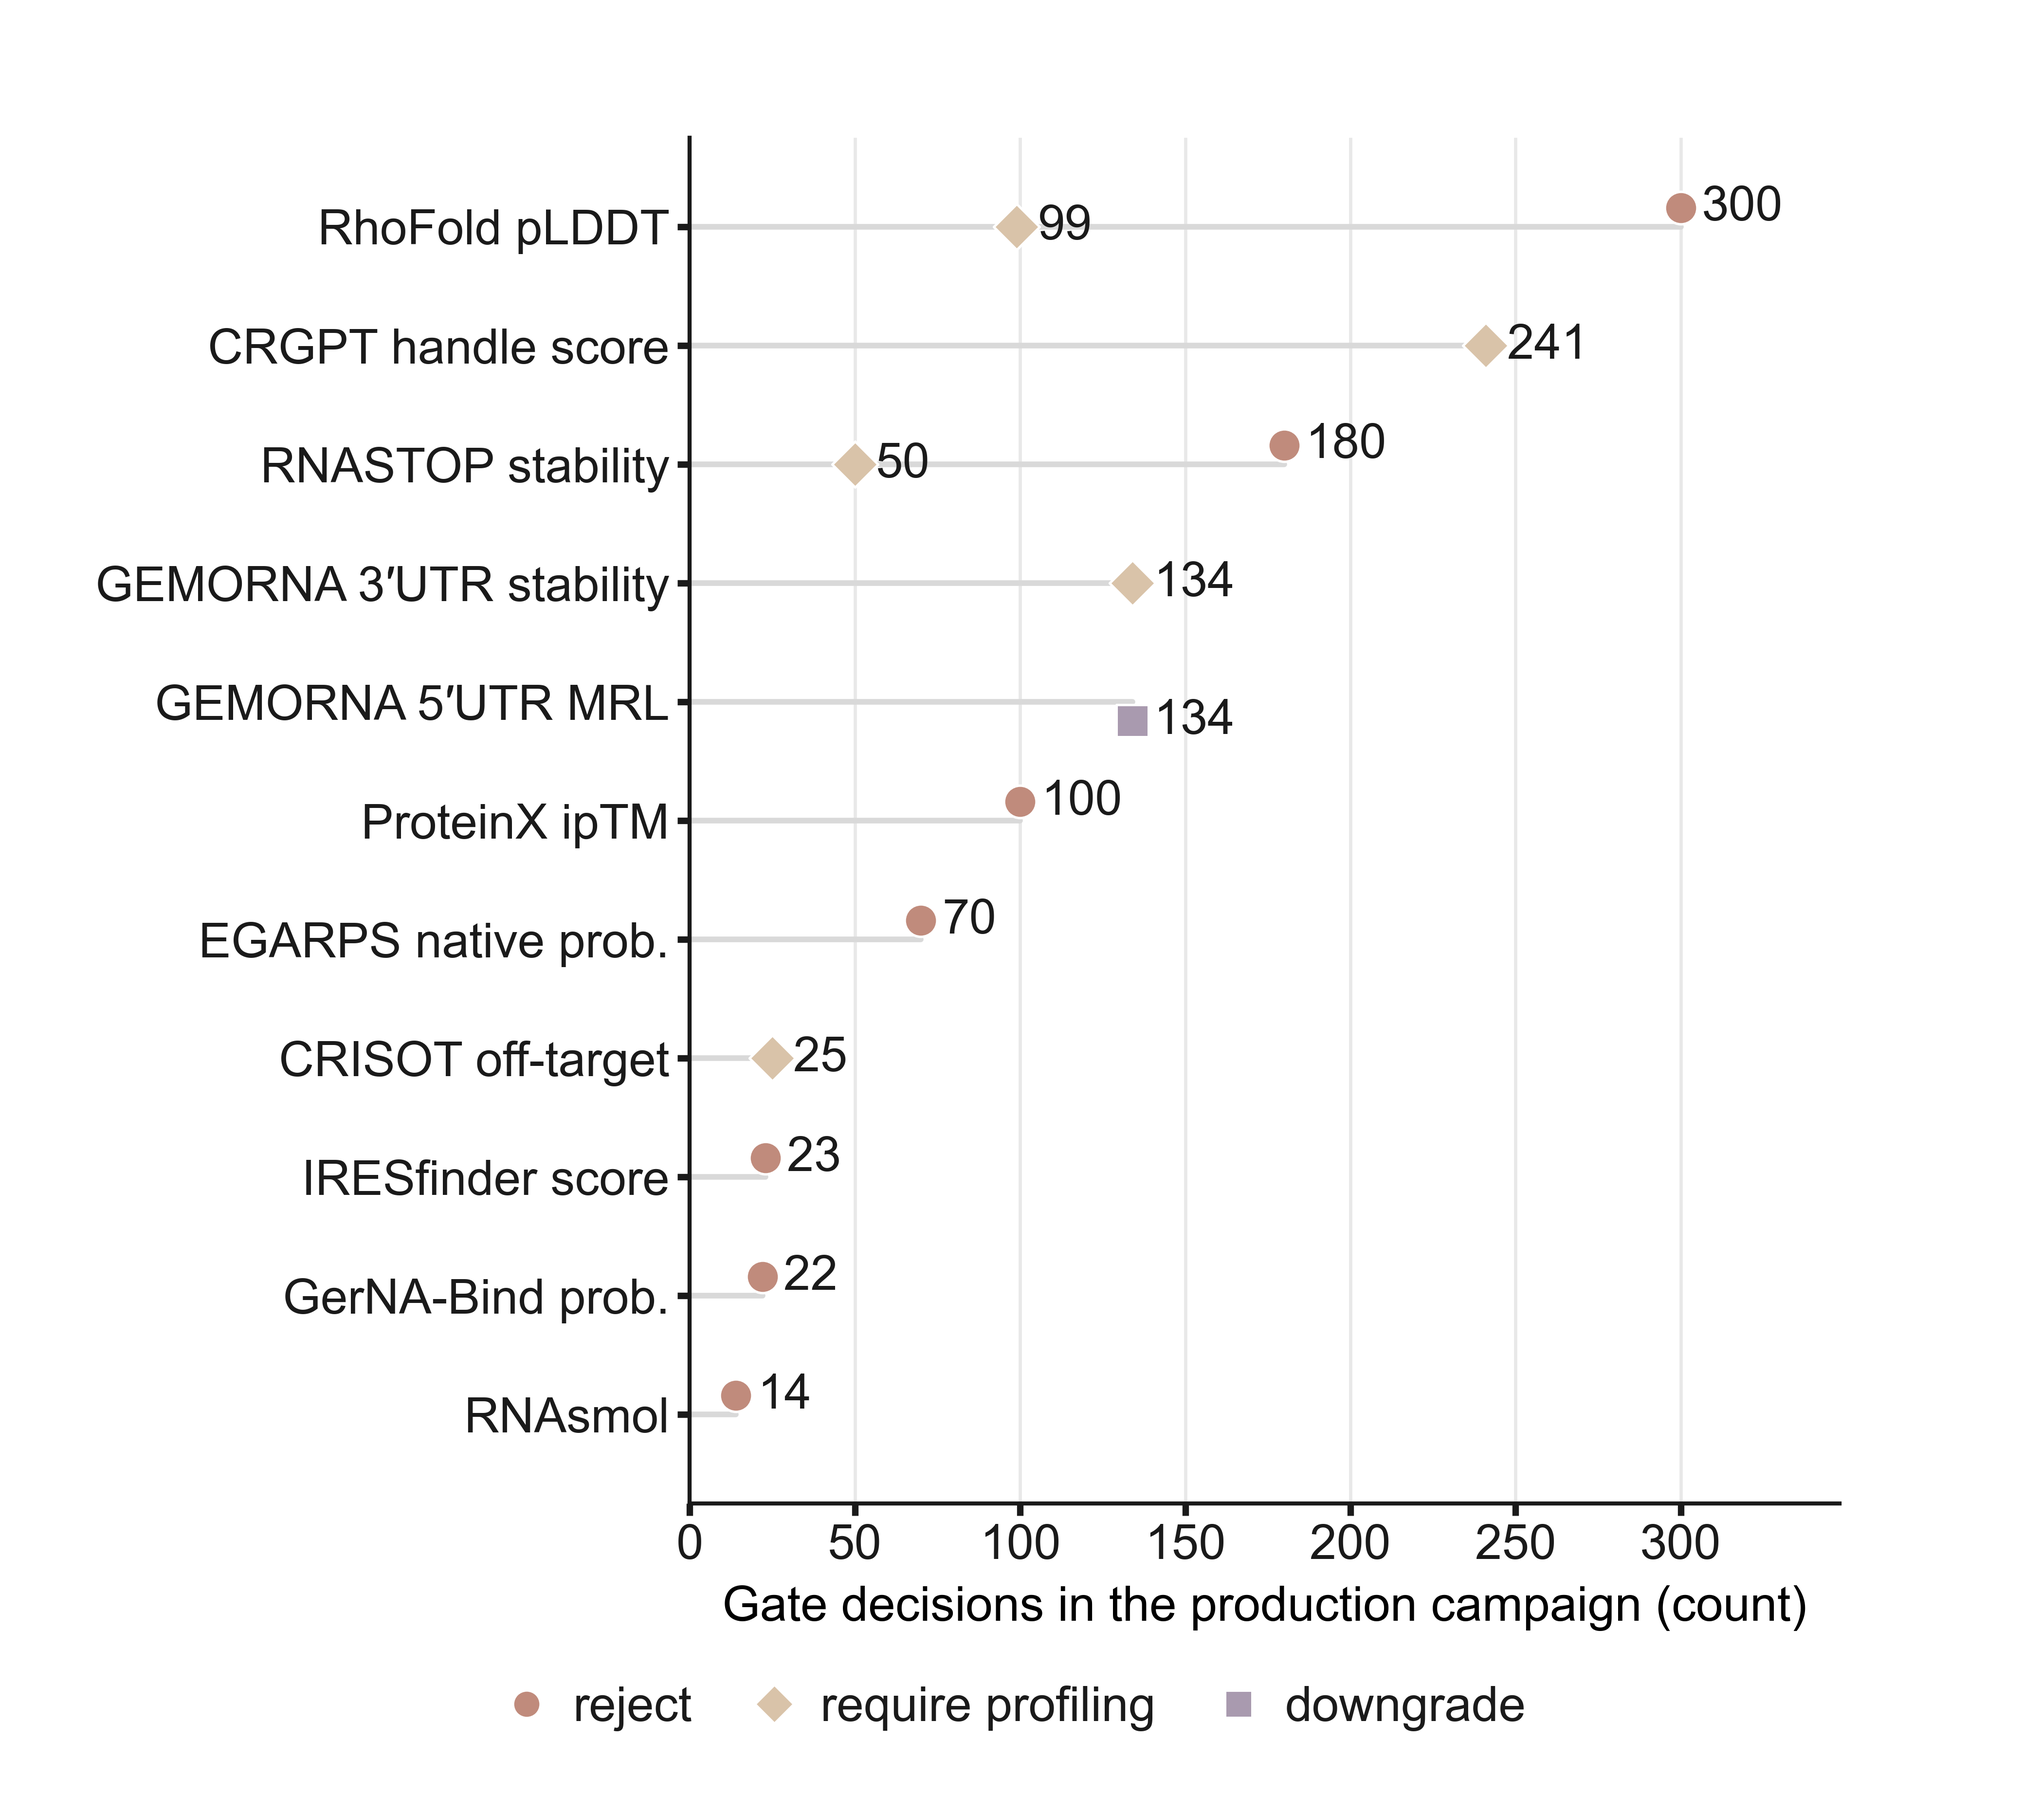
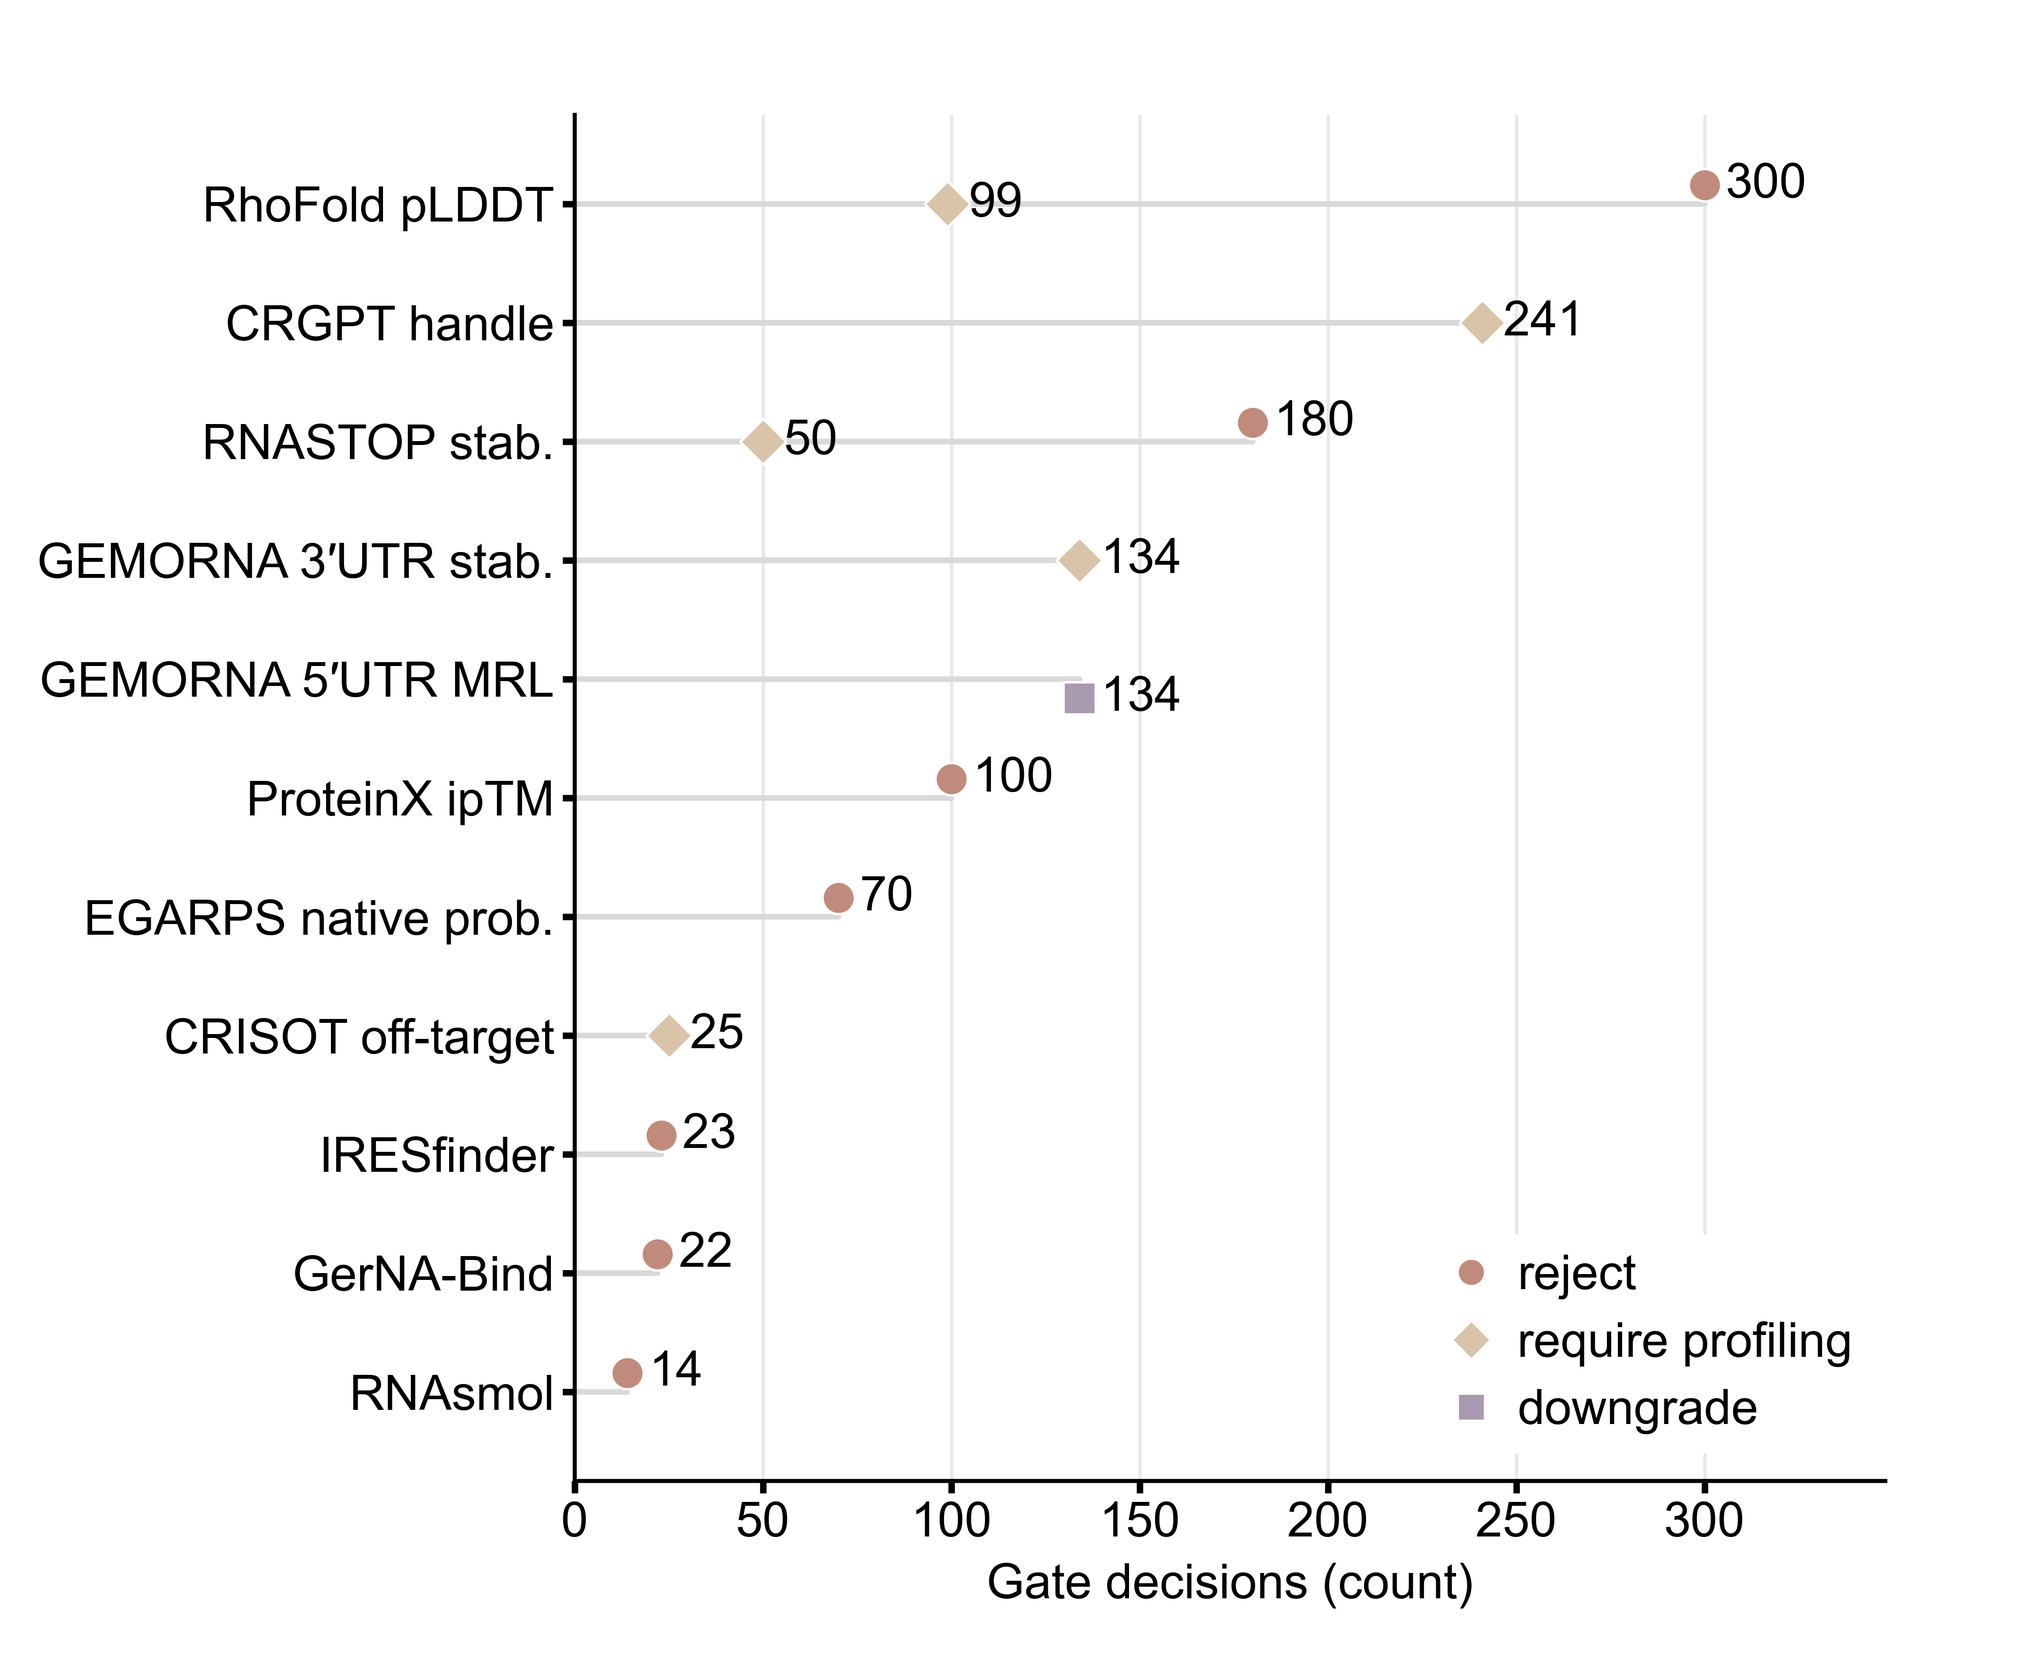
style(fig4f): pure-black text + in-panel verdict key + shortened labels — user-directed revision of the frozen Exp-24 panel, no re-run
- all text palette TEXT #1A1A1A -> INK #000000 (the fig4a-4e/4g panel convention; rcParams text/edge/label/tick colours + value labels + key texts; pixel-verified dominant dark [0,0,0])
- no in-figure title (Nature convention, verified against the LinearDesign Nature 621 reference: bold panel letter at top left — added by the assembler — headline in the caption, never a centred title); sentence-like x-axis label "Gate decisions in the production campaign (count)" -> "Gate decisions (count)"
- y row labels shortened to tool + gated metric (fig4c bare-name convention): CRGPT handle, RNASTOP stab., GEMORNA 3'UTR stab., IRESfinder, GerNA-Bind; longest label 23 -> 19 chars, left margin 30 -> 25 mm; terminology verified against upstream repos (RhoFold/GEMORNA/RNASTOP/CRISOT/IRESfinder/GerNA-Bind/RNAsmol/EGARPS/CRGPT confirmed; ProteinX kept as the project-wide paper convention for the Protenix service)
- verdict key moved into the panel lower right (Nature in-panel key convention, also fig2h) with opaque white edgeless backing so gridlines do not cross it; external key row dropped, canvas 78.9 -> 72.4 mm tall
- new _layout_check(): rendered-extent asserts — every text inside the figure, zero text/text overlaps, key clears every value label (PASS)
- colours unchanged palette rev 7 (reject #C08B7C, require_profiling #D9C3A9, downgrade #A99AAF); 1200-dpi PNG + vector PDF (fonttype 42, Nature Methods conformant)
[…]

diff --git a/rna_agent_system/experiments/plots/fig4f_gate_decisions.py b/rna_agent_system/experiments/plots/fig4f_gate_decisions.py
@@ -13,16 +13,21 @@ logged identically under advisory and enforce; only enforcement differs).
 Counts come from the frozen audit-slice corpus (SHA-256 manifest, see
 experiments/exp24_audit_gate_stats.py).
 
-Style (reset programme, Nature convention): no in-figure title — the headline
-lives in the caption and the assembler adds the panel letter; every text
-element is one 6-pt ink-black style; the verdict legend is a centred row
-block directly under the x-axis label (fig2i/fig3b convention); absolute-mm
-geometry; 1200-dpi PNG + vector PDF (fonttype 42).
+Style (reset programme, Nature convention): no in-figure title — Nature
+panels carry a bold panel letter at the top left (added by the assembler)
+with the headline in the caption, never a centred title on the panel (e.g.
+LinearDesign, Nature 621, 399–404, Figs 2–3); the verdict key sits inside
+the panel at the empty lower right (Nature in-panel key convention, also
+fig2h); every text element is one 6-pt pure-black style (the Fig-4 panel
+convention, fig4a–fig4e/fig4g — the old #1A1A1A palette TEXT read grey
+against those panels); absolute-mm geometry; 1200-dpi PNG + vector PDF
+(fonttype 42) — the raster exceeds the Nature Methods 300–1200-dpi
+requirement and the PDF keeps text as editable TrueType.
 
 Colours (palette rev 7): verdict colours follow the fig2h/fig4e gate
 convention — reject terracotta (#C08B7C), require_profiling sand (#D9C3A9),
 downgrade mauve grey (#A99AAF); dumbbell connectors and gridlines non-data
-grey; all text ink black.
+grey; all text pure black.
 
 Data  : experiments/results/exp24_audit_gate_stats/stats.json
 Usage : python experiments/plots/fig4f_gate_decisions.py
@@ -42,7 +47,7 @@ import matplotlib.pyplot as plt  # noqa: E402
 from matplotlib.lines import Line2D  # noqa: E402
 
 sys.path.insert(0, str(Path(__file__).resolve().parent))
-from palette import NEUTRAL_GRID, PALETTE_BY_NAME, TEXT  # noqa: E402
+from palette import NEUTRAL_GRID, PALETTE_BY_NAME  # noqa: E402
 
 PROJECT_ROOT = Path(__file__).resolve().parent.parent.parent
 STATS = PROJECT_ROOT / "experiments" / "results" / "exp24_audit_gate_stats" / "stats.json"
@@ -50,17 +55,19 @@ if os.environ.get("FIG4F_SUMMARY"):
     STATS = Path(os.environ["FIG4F_SUMMARY"]).resolve()
 OUT_DIR = PROJECT_ROOT / "experiments" / "plots" / "output"
 
-FS = 6  # the programme's single text size
+FS = 6            # the programme's single text size
+INK = "#000000"   # pure black — the Fig-4 panel convention (fig4a–fig4e/fig4g)
 
 plt.rcParams.update({
     "font.family": "sans-serif",
     "font.sans-serif": ["Arial", "Helvetica", "DejaVu Sans"],
     "font.size": FS,
     "axes.linewidth": 0.5,
-    "text.color": TEXT,
-    "axes.edgecolor": TEXT,
-    "xtick.color": TEXT,
-    "ytick.color": TEXT,
+    "text.color": INK,
+    "axes.edgecolor": INK,
+    "axes.labelcolor": INK,
+    "xtick.color": INK,
+    "ytick.color": INK,
     "pdf.fonttype": 42,
 })
 
@@ -71,9 +78,9 @@ VERDICT_LABELS = {
     "downgrade": "downgrade",
 }
 VERDICT_COLOR = {
-    "reject": PALETTE_BY_NAME["terracotta"],     # #C08B7C (fig2h convention)
+    "reject": PALETTE_BY_NAME["terracotta"],       # #C08B7C (fig2h convention)
     "require_profiling": PALETTE_BY_NAME["sand"],  # #D9C3A9
-    "downgrade": PALETTE_BY_NAME["mauve_grey"],  # #A99AAF
+    "downgrade": PALETTE_BY_NAME["mauve_grey"],    # #A99AAF
 }
 VERDICT_MARKER = {
     "reject": "o",
@@ -81,18 +88,23 @@ VERDICT_MARKER = {
     "downgrade": "s",
 }
 
+# Concise row labels: tool name + the gated metric, generic suffixes dropped
+# (fig4c bare-name convention). Verified against the upstream repos:
+# RhoFold pLDDT, Protenix-service ipTM, EGARPS native probability, GerNA-Bind,
+# GEMORNA 5'UTR mean ribosome load / 3'UTR stability, IRESfinder, RNASTOP
+# stability, CRISOT off-target score, CRGPT sgRNA-handle score, RNAsmol.
 ORACLE_LABELS = {
     "egarps_native_probability": "EGARPS native prob.",
     "proteinx_ipTM": "ProteinX ipTM",
     "rhofold_mean_plddt": "RhoFold pLDDT",
     "rnasmol": "RNAsmol",
-    "gernabind_probability": "GerNA-Bind prob.",
+    "gernabind_probability": "GerNA-Bind",
     "gemorna_5utr_mrl": "GEMORNA 5\u2032UTR MRL",
-    "gemorna_3utr_stability": "GEMORNA 3\u2032UTR stability",
-    "iresfinder_score": "IRESfinder score",
-    "rnastop_stability": "RNASTOP stability",
+    "gemorna_3utr_stability": "GEMORNA 3\u2032UTR stab.",
+    "iresfinder_score": "IRESfinder",
+    "rnastop_stability": "RNASTOP stab.",
     "crisot_off_target_score": "CRISOT off-target",
-    "crgpt_handle_score": "CRGPT handle score",
+    "crgpt_handle_score": "CRGPT handle",
     "junction_metric": "Junction metric",
     "cai_metric": "CAI",
     "mfe_metric": "MFE (LinearFold)",
@@ -121,11 +133,11 @@ def main() -> int:
 
     # ---- geometry (absolute mm) -----------------------------------------
     fig_w_mm = 88.0                       # single column (fig3b/fig3g convention)
-    left_mm = 30.0                        # oracle row labels
-    right_mm = 8.0
+    left_mm = 25.0                        # concise oracle row labels
+    right_mm = 6.0
     row_mm = 5.4
-    top_mm = 6.0
-    bottom_mm = 13.5                      # x label + verdict legend row
+    top_mm = 5.0
+    bottom_mm = 8.0                       # x tick labels + axis title (key in-panel)
     fig_h_mm = top_mm + bottom_mm + row_mm * n_rows
 
     fig = plt.figure(figsize=(fig_w_mm / 25.4, fig_h_mm / 25.4), facecolor="white")
@@ -162,7 +174,7 @@ def main() -> int:
             ax.annotate(
                 f"{c}", (c, y_row + dy[v]),
                 xytext=(2.6, 0), textcoords="offset points",
-                ha="left", va="center", fontsize=FS, color=TEXT, zorder=5,
+                ha="left", va="center", fontsize=FS, color=INK, zorder=5,
             )
 
     ax.set_yticks([n_rows - 1 - i for i in range(n_rows)])
@@ -173,13 +185,16 @@ def main() -> int:
     ax.set_xlim(0, x_max * 1.16)  # headroom for the largest value label
     ax.set_xticks(x_ticks)
     ax.tick_params(axis="both", labelsize=FS, length=1.5, pad=1)
-    ax.set_xlabel("Gate decisions in the production campaign (count)",
-                  fontsize=FS, labelpad=2)
+    ax.set_xlabel("Gate decisions (count)", fontsize=FS, labelpad=2)
     for s_name in ("top", "right"):
         ax.spines[s_name].set_visible(False)
     ax.grid(axis="x", color=NEUTRAL_GRID, linewidth=0.4, alpha=0.6)
     ax.set_axisbelow(True)
 
+    # Verdict key inside the panel (Nature in-panel key convention, also
+    # fig2h): the lower right of the axes is empty — bottom rows reach only
+    # count ~25 while the key occupies x ≳ 60% of the axis width. Opaque
+    # white backing (edgeless) so the gridlines do not cross the key.
     handles = [
         Line2D([0], [0], linestyle="none", marker=VERDICT_MARKER[v],
                markersize=3.4, markerfacecolor=VERDICT_COLOR[v],
@@ -187,12 +202,21 @@ def main() -> int:
                label=VERDICT_LABELS[v])
         for v in VERDICTS
     ]
-    leg = fig.legend(handles, [h.get_label() for h in handles], ncol=3,
-                     loc="lower center", bbox_to_anchor=(0.5, 0.035),
-                     frameon=False, fontsize=FS, handlelength=1.2,
-                     handletextpad=0.35, columnspacing=1.1, borderaxespad=0.0)
+    leg = ax.legend(handles, [h.get_label() for h in handles], ncol=1,
+                    loc="lower right", bbox_to_anchor=(0.99, 0.02),
+                    frameon=True, facecolor="white", edgecolor="none",
+                    framealpha=1.0, fontsize=FS, handlelength=1.0,
+                    handletextpad=0.45, labelspacing=0.45, borderaxespad=0.0,
+                    borderpad=0.4)
     for t in leg.get_texts():
-        t.set_color(TEXT)
+        t.set_color(INK)
+
+    # ---- layout self-check: text inside the figure, no overlaps ----------
+    problems = _layout_check(fig, ax, leg)
+    if problems:
+        for p in problems:
+            print(f"layout check FAIL: {p}")
+        return 1
 
     OUT_DIR.mkdir(parents=True, exist_ok=True)
     for ext in ("pdf", "png"):
@@ -203,6 +227,42 @@ def main() -> int:
     totals = stats["gate_decisions"]["verdict_totals"]
     print(f"rows (oracles): {n_rows}; verdict totals: {totals}")
     return 0
+
+
+def _layout_check(fig, ax, leg) -> list[str]:
+    """Rendered-extent assertions: every text element (row labels, tick
+    labels, axis title, value labels, legend) must lie inside the figure and
+    no two text extents may intersect; the legend must clear every value
+    label."""
+    fig.canvas.draw()
+    rend = fig.canvas.get_renderer()
+    fig_box = fig.get_window_extent(renderer=rend)
+    texts = list(ax.texts)
+    texts += [ax.xaxis.get_label(), ax.yaxis.get_label()]
+    texts += list(ax.get_xticklabels()) + list(ax.get_yticklabels())
+    texts += list(leg.get_texts())
+    problems: list[str] = []
+    boxes = []
+    for t in texts:
+        if not t.get_text():
+            continue
+        bb = t.get_window_extent(renderer=rend)
+        if not (fig_box.contains(bb.x0, bb.y0) and fig_box.contains(bb.x1, bb.y1)):
+            problems.append(f"text outside figure: {t.get_text()!r}")
+        boxes.append((t.get_text(), bb))
+    for i in range(len(boxes)):
+        for j in range(i + 1, len(boxes)):
+            if boxes[i][1].overlaps(boxes[j][1]):
+                problems.append(
+                    f"overlap: {boxes[i][0]!r} x {boxes[j][0]!r}")
+    leg_bb = leg.get_window_extent(renderer=rend)
+    if not (fig_box.contains(leg_bb.x0, leg_bb.y0)
+            and fig_box.contains(leg_bb.x1, leg_bb.y1)):
+        problems.append("legend outside figure")
+    for t in ax.texts:  # value labels
+        if t.get_text() and leg_bb.overlaps(t.get_window_extent(renderer=rend)):
+            problems.append(f"legend overlaps value label {t.get_text()!r}")
+    return problems
 
 
 def _nice_ticks(x_max: int) -> list[int]:
